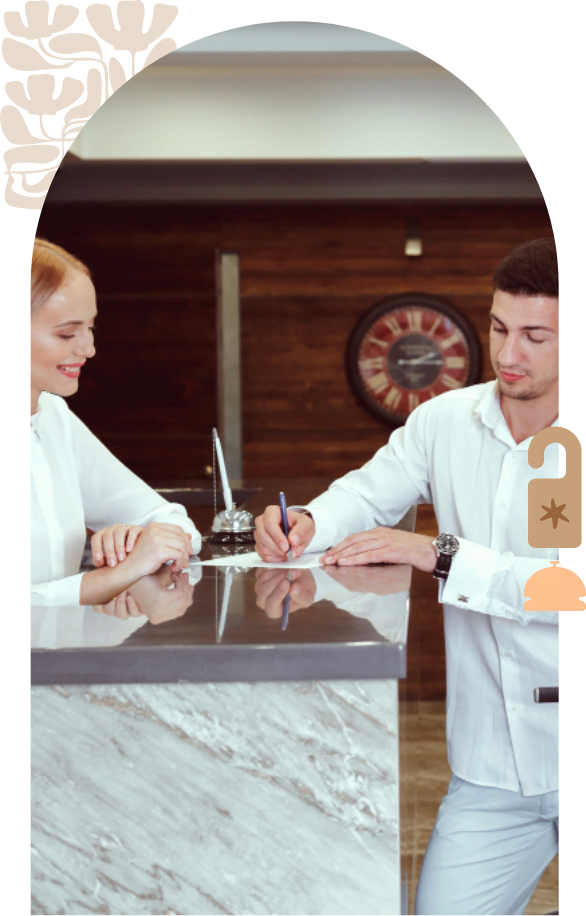
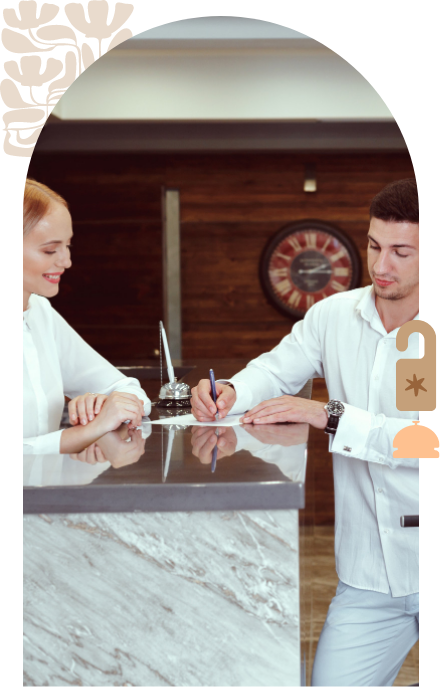
Review

diff --git a/src/views/Tema3.vue b/src/views/Tema3.vue
@@ -19,7 +19,7 @@
       .col-lg-2.d-none.d-lg-block
         img(src="@/assets/curso/tema3/img02.png").mx-auto
       .col-lg-10
-        p.mb-0(data-aos="fade-right") En la operación hotelera, la recepción y las áreas administrativas utilizan sistemas <em>PMS</em>, plataformas digitales y redes informáticas que permiten almacenar y compartir información en tiempo real. Aunque estas herramientas optimizan procesos y facilitan la gestión operativa, también pueden exponer al establecimiento a riesgos relacionados con accesos no autorizados, pérdida de información, ataques informáticos o uso inadecuado de datos personales. Debido a ello, los hoteles deben implementar medidas de seguridad orientadas a proteger tanto la infraestructura tecnológica como la información de huéspedes y colaboradores.
+        p.mb-0(data-aos="fade-right") En la operación hotelera, la recepción y las áreas administrativas utilizan sistemas PMS, plataformas digitales y redes informáticas que permiten almacenar y compartir información en tiempo real. Aunque estas herramientas optimizan procesos y facilitan la gestión operativa, también pueden exponer al establecimiento a riesgos relacionados con accesos no autorizados, pérdida de información, ataques informáticos o uso inadecuado de datos personales. Debido a ello, los hoteles deben implementar medidas de seguridad orientadas a proteger tanto la infraestructura tecnológica como la información de huéspedes y colaboradores.
 
 
     separador
@@ -76,9 +76,9 @@
                 p.mb-0.text-center Aplicar protocolos de almacenamiento seguro.
 
 
-    .row.justify-content-center.align-items-center.mb-5
+    .row.justify-content-center.align-items-center.mb-3
       .col-lg-auto.d-none.d-lg-block
-        img(src="@/assets/curso/tema3/img08.svg").mx-auto
+        img(src="@/assets/curso/tema3/img08.svg").mx-auto.w-50
       .col-lg
         p.mb-0(data-aos="fade-right") La seguridad de la información también fortalece la confianza del huésped. Cuando el establecimiento protege adecuadamente los datos personales y financieros, se genera mayor percepción de seguridad y profesionalismo en la prestación del servicio.
 
@@ -92,7 +92,7 @@
       img(src="@/assets/curso/tema3/img09.png", alt="")
     .row.justify-content-center.align-items-center.z-2.mb-5
       .col-lg-11(data-aos="fade-right")
-        p.banner-text Los establecimientos de alojamiento utilizan redes informáticas, sistemas <em>PMS</em>, plataformas de pago y canales digitales que requieren mecanismos de protección frente a amenazas tecnológicas. La seguridad digital se enfoca precisamente en proteger equipos, redes y aplicaciones frente a ataques informáticos, accesos indebidos o pérdida de información.
+        p.banner-text Los establecimientos de alojamiento utilizan redes informáticas, sistemas PMS, plataformas de pago y canales digitales que requieren mecanismos de protección frente a amenazas tecnológicas. La seguridad digital se enfoca precisamente en proteger equipos, redes y aplicaciones frente a ataques informáticos, accesos indebidos o pérdida de información.
 
 
     .row.mb-5.justify-content-center.align-items-center
@@ -106,7 +106,7 @@
     .row.justify-content-center.align-items-center.z-2.mb-5
       .col-lg-12
         .titulo-sexto.color-acento-contenido.mb-4
-          h5 Figura 3.
+          h5 #[b Figura 3.]
           span Riesgos operativos asociados a la seguridad digital  
         img.mb-2.d-none.d-lg-block(data-aos="fade-up", src="@/assets/curso/tema3/img11.png", alt="La figura 3 presenta los siete riesgos digitales que pueden afectar la operación de un establecimiento hotelero y la protección de la información de huéspedes y colaboradores. La figura desarrolla los siguientes riesgos: 1. Accesos no autorizados al PMS: personas no autorizadas pueden ingresar al sistema de gestión hotelera y acceder a información sensible o manipular datos operativos. 2. Robo o filtración de información: la información de huéspedes puede ser robada o divulgada, generando riesgos legales, financieros y afectación de la reputación del hotel. 3. Pérdida de datos: fallas técnicas, eliminación accidental o daños en los sistemas pueden provocar pérdida de información y afectar la operación hotelera. 4. Suplantación de identidad: algunas personas pueden hacerse pasar por huéspedes o colaboradores para obtener acceso a información, servicios o realizar fraudes. 5. Correos fraudulentos: los correos de tipo phishing buscan engañar al personal para obtener contraseñas, información confidencial o instalar programas maliciosos. 6. Ataques a redes internas: los atacantes pueden ingresar a las redes del hotel para interceptar información, afectar dispositivos o interrumpir servicios tecnológicos. 7. Fallas en sistemas tecnológicos: errores de software, caídas de sistemas o falta de mantenimiento pueden generar interrupciones y afectar la continuidad operativa del hotel. La prevención, la capacitación y el uso de buenas prácticas de ciberseguridad son clave para proteger la información y garantizar un servicio seguro y confiable.")
         img.mb-2.d-lg-none(data-aos="fade-up", src="@/assets/curso/tema3/img12.png", alt="La figura 3 presenta los siete riesgos digitales que pueden afectar la operación de un establecimiento hotelero y la protección de la información de huéspedes y colaboradores. La figura desarrolla los siguientes riesgos: 1. Accesos no autorizados al PMS: personas no autorizadas pueden ingresar al sistema de gestión hotelera y acceder a información sensible o manipular datos operativos. 2. Robo o filtración de información: la información de huéspedes puede ser robada o divulgada, generando riesgos legales, financieros y afectación de la reputación del hotel. 3. Pérdida de datos: fallas técnicas, eliminación accidental o daños en los sistemas pueden provocar pérdida de información y afectar la operación hotelera. 4. Suplantación de identidad: algunas personas pueden hacerse pasar por huéspedes o colaboradores para obtener acceso a información, servicios o realizar fraudes. 5. Correos fraudulentos: los correos de tipo phishing buscan engañar al personal para obtener contraseñas, información confidencial o instalar programas maliciosos. 6. Ataques a redes internas: los atacantes pueden ingresar a las redes del hotel para interceptar información, afectar dispositivos o interrumpir servicios tecnológicos. 7. Fallas en sistemas tecnológicos: errores de software, caídas de sistemas o falta de mantenimiento pueden generar interrupciones y afectar la continuidad operativa del hotel. La prevención, la capacitación y el uso de buenas prácticas de ciberseguridad son clave para proteger la información y garantizar un servicio seguro y confiable.")
@@ -190,7 +190,7 @@
                 td Sistemas de encriptación
               tr
                 td Virus o <em>malware</em>
-                td Daños en el <em>PMS</em>
+                td Daños en el PMS
                 td Antivirus y actualizaciones
               tr
                 td Accesos no autorizados
@@ -212,7 +212,7 @@
           .row.justify-content-center.align-items-center.p-4.p-lg-3
             .col-lg-9.order-1.order-lg-1.mb-4.mb-lg-0
               h4.mb-3 Caso práctico
-              p.mb-0 Durante su turno en recepción, un colaborador recibe un correo que aparenta ser del área de sistemas, solicitando actualizar con urgencia las credenciales del <em>Property Management System</em> (<em>PMS</em>) mediante un enlace externo. Al revisar el mensaje, identifica inconsistencias en el remitente y en la dirección del enlace, lo que le genera sospecha.
+              p.mb-0 Durante su turno en recepción, un colaborador recibe un correo que aparenta ser del área de sistemas, solicitando actualizar con urgencia las credenciales del Property Management System (PMS) mediante un enlace externo. Al revisar el mensaje, identifica inconsistencias en el remitente y en la dirección del enlace, lo que le genera sospecha.
             .col-lg-3.col-md-6.order-2.order-lg-2
               img(src="@/assets/curso/tema3/img15.png", alt="").img-fluid.mx-auto.w-75
           
@@ -238,7 +238,7 @@
     .row.justify-content-center.align-items-center.z-2.mb-5
       .col-lg-12
         .titulo-sexto.color-acento-contenido.mb-4
-          h5 Figura 4.
+          h5 #[b Figura 4.]
           span Principales recomendaciones y buenas prácticas de ciberseguridad 
         img.mb-2.d-none.d-lg-block(data-aos="fade-up", src="@/assets/curso/tema3/img17.png", alt="Principales recomendaciones y buenas prácticas de ciberseguridad. La figura 4 presenta ocho recomendaciones orientadas a fortalecer la protección de la información y la seguridad digital en establecimientos hoteleros. La infografía desarrolla las siguientes recomendaciones: 1. Utilizar contraseñas seguras y cambiarlas periódicamente: se recomienda usar contraseñas largas que combinen letras, números y símbolos, además de actualizarlas periódicamente para fortalecer la seguridad. 2. Bloquear equipos cuando no estén en uso: los equipos y sesiones deben bloquearse al ausentarse para evitar accesos no autorizados a la información. 3. Evitar compartir usuarios o claves de acceso: cada colaborador debe utilizar su propio usuario y contraseña. No se deben compartir ni dejar visibles las claves de acceso. 4. Verificar la autenticidad de correos electrónicos: antes de abrir correos electrónicos, se recomienda revisar remitente, enlaces y contenido. En caso de duda, la información debe confirmarse por canales oficiales. 5. No descargar archivos sospechosos: debe evitarse la descarga de archivos o programas provenientes de fuentes desconocidas, ya que pueden contener virus o programas maliciosos. 6. Custodiar documentos físicos: los documentos con información de huéspedes deben mantenerse en lugares seguros y bajo control del personal autorizado. 7. Reportar incidentes o accesos irregulares: cualquier actividad sospechosa o incidente de seguridad debe reportarse inmediatamente al responsable correspondiente. 8. Acceder únicamente a la información necesaria para las funciones asignadas: el acceso a la información debe limitarse únicamente a los datos requeridos para el desarrollo de las funciones laborales.")
         img.mb-2.d-lg-none(data-aos="fade-up", src="@/assets/curso/tema3/img18.png", alt="Principales recomendaciones y buenas prácticas de ciberseguridad. La figura 4 presenta ocho recomendaciones orientadas a fortalecer la protección de la información y la seguridad digital en establecimientos hoteleros. La infografía desarrolla las siguientes recomendaciones: 1. Utilizar contraseñas seguras y cambiarlas periódicamente: se recomienda usar contraseñas largas que combinen letras, números y símbolos, además de actualizarlas periódicamente para fortalecer la seguridad. 2. Bloquear equipos cuando no estén en uso: los equipos y sesiones deben bloquearse al ausentarse para evitar accesos no autorizados a la información. 3. Evitar compartir usuarios o claves de acceso: cada colaborador debe utilizar su propio usuario y contraseña. No se deben compartir ni dejar visibles las claves de acceso. 4. Verificar la autenticidad de correos electrónicos: antes de abrir correos electrónicos, se recomienda revisar remitente, enlaces y contenido. En caso de duda, la información debe confirmarse por canales oficiales. 5. No descargar archivos sospechosos: debe evitarse la descarga de archivos o programas provenientes de fuentes desconocidas, ya que pueden contener virus o programas maliciosos. 6. Custodiar documentos físicos: los documentos con información de huéspedes deben mantenerse en lugares seguros y bajo control del personal autorizado. 7. Reportar incidentes o accesos irregulares: cualquier actividad sospechosa o incidente de seguridad debe reportarse inmediatamente al responsable correspondiente. 8. Acceder únicamente a la información necesaria para las funciones asignadas: el acceso a la información debe limitarse únicamente a los datos requeridos para el desarrollo de las funciones laborales.")

diff --git a/src/views/Tema2.vue b/src/views/Tema2.vue
@@ -15,7 +15,7 @@
       .col-lg-9
         p.mb-3(data-aos="fade-right") El registro de huéspedes constituye uno de los procesos más importantes dentro de la operación de recepción hotelera, debido a que permite formalizar la prestación del servicio de alojamiento, verificar la identidad del cliente y garantizar el cumplimiento de los procedimientos técnicos y normativos establecidos por el hotel. Este proceso no solo tiene una finalidad administrativa, sino también operativa, legal y de seguridad, ya que la información registrada sirve como soporte para el control de ocupación, la facturación, la protección de datos y el seguimiento de los huéspedes durante su permanencia en el establecimiento.
         .bg-fondo-6.px-lg-5.py-lg-4.px-4.py-3.br-15.mb-0
-          p.mb-0 En la actualidad, los procesos de registro se apoyan tanto en procedimientos manuales como en herramientas tecnológicas integradas a sistemas <em>PMS</em>, lo que facilita el almacenamiento, consulta y actualización de la información en tiempo real. En consecuencia, el personal de recepción debe aplicar protocolos claros relacionados con la atención, la verificación documental y el diligenciamiento correcto de los registros hoteleros.
+          p.mb-0 En la actualidad, los procesos de registro se apoyan tanto en procedimientos manuales como en herramientas tecnológicas integradas a sistemas PMS, lo que facilita el almacenamiento, consulta y actualización de la información en tiempo real. En consecuencia, el personal de recepción debe aplicar protocolos claros relacionados con la atención, la verificación documental y el diligenciamiento correcto de los registros hoteleros.
     
     separador
     
@@ -48,7 +48,7 @@
               .col-8
                 img(src='@/assets/curso/tema2/img06.svg' alt='', style="width: 100px;").mx-auto
             h4.text-center #[b Verificación de la reserva]
-            p.text-center Se consulta en el sistema (<em>PMS</em>) la existencia de la reserva, validando fechas, tipo de habitación, número de personas y condiciones acordadas, con el fin de evitar inconsistencias en el servicio.
+            p.text-center Se consulta en el sistema (PMS) la existencia de la reserva, validando fechas, tipo de habitación, número de personas y condiciones acordadas, con el fin de evitar inconsistencias en el servicio.
 
           .tarjeta.bg-fondo-8.p-4.h-100
             .row.justify-content-center.mb-3
@@ -105,7 +105,7 @@
 
       .col-lg-6.col-md-12.mb-0.mb-lg-0
         .bg-fondo-9.px-lg-4.py-lg-3.px-4.py-3.br-15(data-aos="fade-down")
-          p.mb-0(data-aos="fade-right") Entre los documentos más utilizados para el registro hotelero se encuentran:
+          p.mb-3(data-aos="fade-right") Entre los documentos más utilizados para el registro hotelero se encuentran:
 
           ul.lista-ul.mb-0  
             li
@@ -227,8 +227,8 @@
                 td Datos personales, dirección, contacto, ocupación y fechas de estadía.
                 td Datos personales, nacionalidad, país de residencia, motivo del viaje y fechas de ingreso al país.
               tr
-                td Registro en el <em>PMS</em>
-                td Se diligencia el registro hotelero y se almacena la información en el sistema <em>PMS</em>.
+                td Registro en el PMS
+                td Se diligencia el registro hotelero y se almacena la información en el sistema PMS.
                 td Se diligencia el registro hotelero incluyendo información migratoria y nacionalidad.
               tr
                 td Requisitos legales
@@ -254,7 +254,7 @@
     .row.justify-content-center.align-items-center.mb-5
       .col-lg-10
         .cajon.bg-color-23.p-4
-          p.mb-0(data-aos="fade-right") En muchos hoteles, el <em>PMS</em> facilita este procedimiento mediante formularios digitales y lectura automática de documentos, optimizando tiempos y reduciendo errores en el registro.
+          p.mb-0(data-aos="fade-right") En muchos hoteles, el PMS facilita este procedimiento mediante formularios digitales y lectura automática de documentos, optimizando tiempos y reduciendo errores en el registro.
 
     separador
     
@@ -267,7 +267,7 @@
 
         .bg-fondo-10.px-lg-4.py-lg-3.px-4.py-3.br-15.mb-4(data-aos="fade-down")
           .col-lg-11.col-md-12
-            p.mb-0(data-aos="fade-right").p-3 La TRH puede diligenciarse en formato físico o digital, dependiendo de las herramientas tecnológicas utilizadas por el hotel. Actualmente, muchos establecimientos integran este procedimiento directamente al <em>PMS</em>, permitiendo almacenar la información de manera automática y segura.
+            p.mb-0(data-aos="fade-right").p-3 La TRH puede diligenciarse en formato físico o digital, dependiendo de las herramientas tecnológicas utilizadas por el hotel. Actualmente, muchos establecimientos integran este procedimiento directamente al PMS, permitiendo almacenar la información de manera automática y segura.
 
 
         .row.align-items-center.mb-0
@@ -280,13 +280,13 @@
 
       .col-lg-3.col-md-8.order-1.order-lg-2.mb-4.mb-lg-0.d-none.d-lg-block
         figure
-          img(src="@/assets/curso/tema2/img16.png", data-aos="zoom-in")
+          img(src="@/assets/curso/tema2/img16.png", data-aos="zoom-in").w-lg-75.mx-auto
 
 
     .row.justify-content-center.align-items-center.z-2.mb-5
       .col-lg-12
         .titulo-sexto.color-acento-contenido.mb-4
-          h5 Figura 2.
+          h5 #[b Figura 2.]
           span Ejemplo de tarjeta de registro hotelero 
         img.mb-2(data-aos="fade-up", src="@/assets/curso/tema2/img17.png", alt="En la figura 2 se detalla un ejemplo de tarjeta de registro hotelero. En ella se introduce la información del huésped al momento de su ingreso.  Los datos que se incluyen en esta tarjeta de registro son: Número o nombre de la habitación. Tipo de identificación. Número de identificación. Nombre (s), apellido, segundo apellido o de casada. Fecha de nacimiento. Género. Nacionalidad. Principal motivo del viaje. Categoría visa o permiso de ingreso. Número de visa. Fecha expedición visa. Vencimiento visa. Profesión. Ocupación u oficio. País de residencia. Departamento/estado/provincia de residencia. Ciudad de residencia. País de procedencia. Departamento/estado/provincia de procedencia. Ciudad de procedencia. País de destino. Departamento/estado/provincia de destino. Ciudad de destino. Fecha de entrada (check-in). Fecha de salida (check-out). Número de acompañantes.")
         //- img.mb-2.d-lg-none(data-aos="fade-up", src="@/assets/curso/tema1/img16-m.png", alt="La figura presenta un decálogo de buenas prácticas orientadas a la protección de la información de los huéspedes en un establecimiento hotelero, destacando que estos datos son confidenciales y su resguardo es responsabilidad de todo el personal. Se enfatiza la necesidad de verificar la identidad del huésped antes de acceder o compartir información, evitar la divulgación de datos a personas no autorizadas y utilizar contraseñas seguras para el acceso a los sistemas. Además, se resaltan acciones clave como custodiar adecuadamente los documentos físicos y digitales, acceder únicamente a la información necesaria para las funciones laborales, usar de manera segura los dispositivos tecnológicos y reportar oportunamente cualquier incidente. En conjunto, estas prácticas buscan garantizar la seguridad de la información, proteger la privacidad del huésped y preservar la confianza y la reputación del hotel.")
@@ -415,40 +415,40 @@
 
     .row
       .col-lg-12
-        .bg-color-1-degrade.p-5.mb-0.rounded-2.br-15
+        .bg-color-1-degrade.p-4.mb-0.rounded-2.br-15
           .row.justify-content-center.align-items-center
-            .col-lg-6.col-md-12.mb-4.mb-lg-0
+            .col-lg-5.col-md-12.mb-4.mb-lg-0
               .row.align-items-center.mb-0
                 .col-lg-auto.mb-4.mb-lg-0
                   img(src="@/assets/curso/tema2/img22.svg", style="max-width: 100px;").mx-auto
                 .col-lg
                   p.mb-0 Para profundizar más sobre los textos, decretos, y leyes que regulan la normatividad del registro hotelero en Colombia, consulte los siguientes anexos:
-            .col-lg-6
+            .col-lg-7
               .row
                 .col-lg-6.col-md-6.col-12.d-flex.mb-3
-                  a.boton.color-acento-botones(:href="obtenerLink('/downloads/Anexo_Ley_679_de_2001.pdf')" target="_blank")
-                    span Anexo Ley 679 de 2001
-                    i.fas.fa-download
+                  a.boton.w-full.color-acento-botones.justify-content-center(:href="obtenerLink('/downloads/Anexo_Ley_679_de_2001.pdf')" target="_blank")
+                    span Ver anexo Ley 679 de 2001
+                    i.fas.fa-file-download
 
                 .col-lg-6.col-md-6.col-12.d-flex.mb-3
-                  a.boton.color-acento-botones(:href="obtenerLink('/downloads/Anexo_Ley_985_de_2005.pdf')" target="_blank")
-                    span Anexo Ley 985 de 2005
-                    i.fas.fa-download
+                  a.boton.w-full.color-acento-botones.justify-content-center(:href="obtenerLink('/downloads/Anexo_Ley_985_de_2005.pdf')" target="_blank")
+                    span Ver anexo Ley 985 de 2005
+                    i.fas.fa-file-download
 
                 .col-lg-6.col-md-6.col-12.d-flex.mb-3
-                  a.boton.color-acento-botones(:href="obtenerLink('/downloads/Anexo_Ley_1558_de_2012.pdf')" target="_blank")
-                    span Anexo Ley 1558 de 2012
-                    i.fas.fa-download
+                  a.boton.w-full.color-acento-botones.justify-content-center(:href="obtenerLink('/downloads/Anexo_Ley_1558_de_2012.pdf')" target="_blank")
+                    span Ver anexo Ley 1558 de 2012
+                    i.fas.fa-file-download
 
                 .col-lg-6.col-md-6.col-12.d-flex.mb-3
-                  a.boton.color-acento-botones(:href="obtenerLink('/downloads/Anexo_Decreto_1074_de_2015.pdf')" target="_blank")
-                    span Anexo Decreto 1074 de 2015
-                    i.fas.fa-download
+                  a.boton.w-full.color-acento-botones.justify-content-center(:href="obtenerLink('/downloads/Anexo_Decreto_1074_de_2015.pdf')" target="_blank")
+                    span Ver anexo Decreto 1074 de 2015
+                    i.fas.fa-file-download
 
                 .col-lg-6.col-md-6.col-12.d-flex.mb-0
-                  a.boton.color-acento-botones(:href="obtenerLink('/downloads/Anexo_Decreto_2119_de_2018.pdf')" target="_blank")
-                    span Anexo Decreto 2119 de 2018
-                    i.fas.fa-download
+                  a.boton.w-full.color-acento-botones.justify-content-center(:href="obtenerLink('/downloads/Anexo_Decreto_2119_de_2018.pdf')" target="_blank")
+                    span Ver anexo Decreto 2119 de 2018
+                    i.fas.fa-file-download
 
     separador
     

diff --git a/src/views/Tema1.vue b/src/views/Tema1.vue
@@ -232,7 +232,7 @@
     .row.justify-content-center.align-items-center.z-2.mb-5
       .col-lg-12
         .titulo-sexto.color-acento-contenido.mb-4
-          h5 Figura 1.
+          h5 #[b Figura 1.]
           span Decálogo de buenas prácticas para la protección de la información 
         img.mb-2.d-none.d-lg-block(data-aos="fade-up", src="@/assets/curso/tema1/img16.png", alt="La figura presenta un decálogo de buenas prácticas orientadas a la protección de la información de los huéspedes en un establecimiento hotelero, destacando que estos datos son confidenciales y su resguardo es responsabilidad de todo el personal. Se enfatiza la necesidad de verificar la identidad del huésped antes de acceder o compartir información, evitar la divulgación de datos a personas no autorizadas y utilizar contraseñas seguras para el acceso a los sistemas. Además, se resaltan acciones clave como custodiar adecuadamente los documentos físicos y digitales, acceder únicamente a la información necesaria para las funciones laborales, usar de manera segura los dispositivos tecnológicos y reportar oportunamente cualquier incidente. En conjunto, estas prácticas buscan garantizar la seguridad de la información, proteger la privacidad del huésped y preservar la confianza y la reputación del hotel.")
         img.mb-2.d-lg-none(data-aos="fade-up", src="@/assets/curso/tema1/img16-m.png", alt="La figura presenta un decálogo de buenas prácticas orientadas a la protección de la información de los huéspedes en un establecimiento hotelero, destacando que estos datos son confidenciales y su resguardo es responsabilidad de todo el personal. Se enfatiza la necesidad de verificar la identidad del huésped antes de acceder o compartir información, evitar la divulgación de datos a personas no autorizadas y utilizar contraseñas seguras para el acceso a los sistemas. Además, se resaltan acciones clave como custodiar adecuadamente los documentos físicos y digitales, acceder únicamente a la información necesaria para las funciones laborales, usar de manera segura los dispositivos tecnológicos y reportar oportunamente cualquier incidente. En conjunto, estas prácticas buscan garantizar la seguridad de la información, proteger la privacidad del huésped y preservar la confianza y la reputación del hotel.")

diff --git a/src/views/Tema4.vue b/src/views/Tema4.vue
@@ -123,7 +123,7 @@
 
     .row.mb-5.justify-content-center.align-items-center
       .col-lg-10.col-md-12.order-2.order-lg-1
-        p.mb-3(data-aos="fade-right") La transformación digital ha generado importantes cambios en la manera en que operan los establecimientos de alojamiento. Actualmente, los hoteles utilizan plataformas tecnológicas, sistemas <em>PMS</em>, registros digitales y herramientas de comunicación en línea que permiten optimizar procesos y mejorar la experiencia del huésped.
+        p.mb-3(data-aos="fade-right") La transformación digital ha generado importantes cambios en la manera en que operan los establecimientos de alojamiento. Actualmente, los hoteles utilizan plataformas tecnológicas, sistemas PMS, registros digitales y herramientas de comunicación en línea que permiten optimizar procesos y mejorar la experiencia del huésped.
         .bg-fondo-17.px-lg-5.py-lg-4.px-4.py-3.br-15.mb-0
           p.mb-0.ms-lg-3.ms-0 Sin embargo, el avance tecnológico también ha generado nuevos retos normativos relacionados con protección de datos, seguridad digital, comercio electrónico y manejo de información personal. En consecuencia, los establecimientos deben actualizar permanentemente sus procedimientos y políticas para garantizar el cumplimiento de las disposiciones legales aplicables al entorno digital.
       .col-lg-2.mb-4.mb-lg-0.col-md-6.order-1.order-lg-2

diff --git a/src/styles/_custom.sass b/src/styles/_custom.sass
@@ -1201,3 +1201,11 @@ a, button, div
 
 .no-pointer .tarjeta--boton
   cursor: initial !important
+
+.boton.w-full
+  width: stretch !important
+
+.w-lg-75
+  width: 75% !important
+  @media screen and (max-width: $bp-max-lg)
+    width: 100% !important
